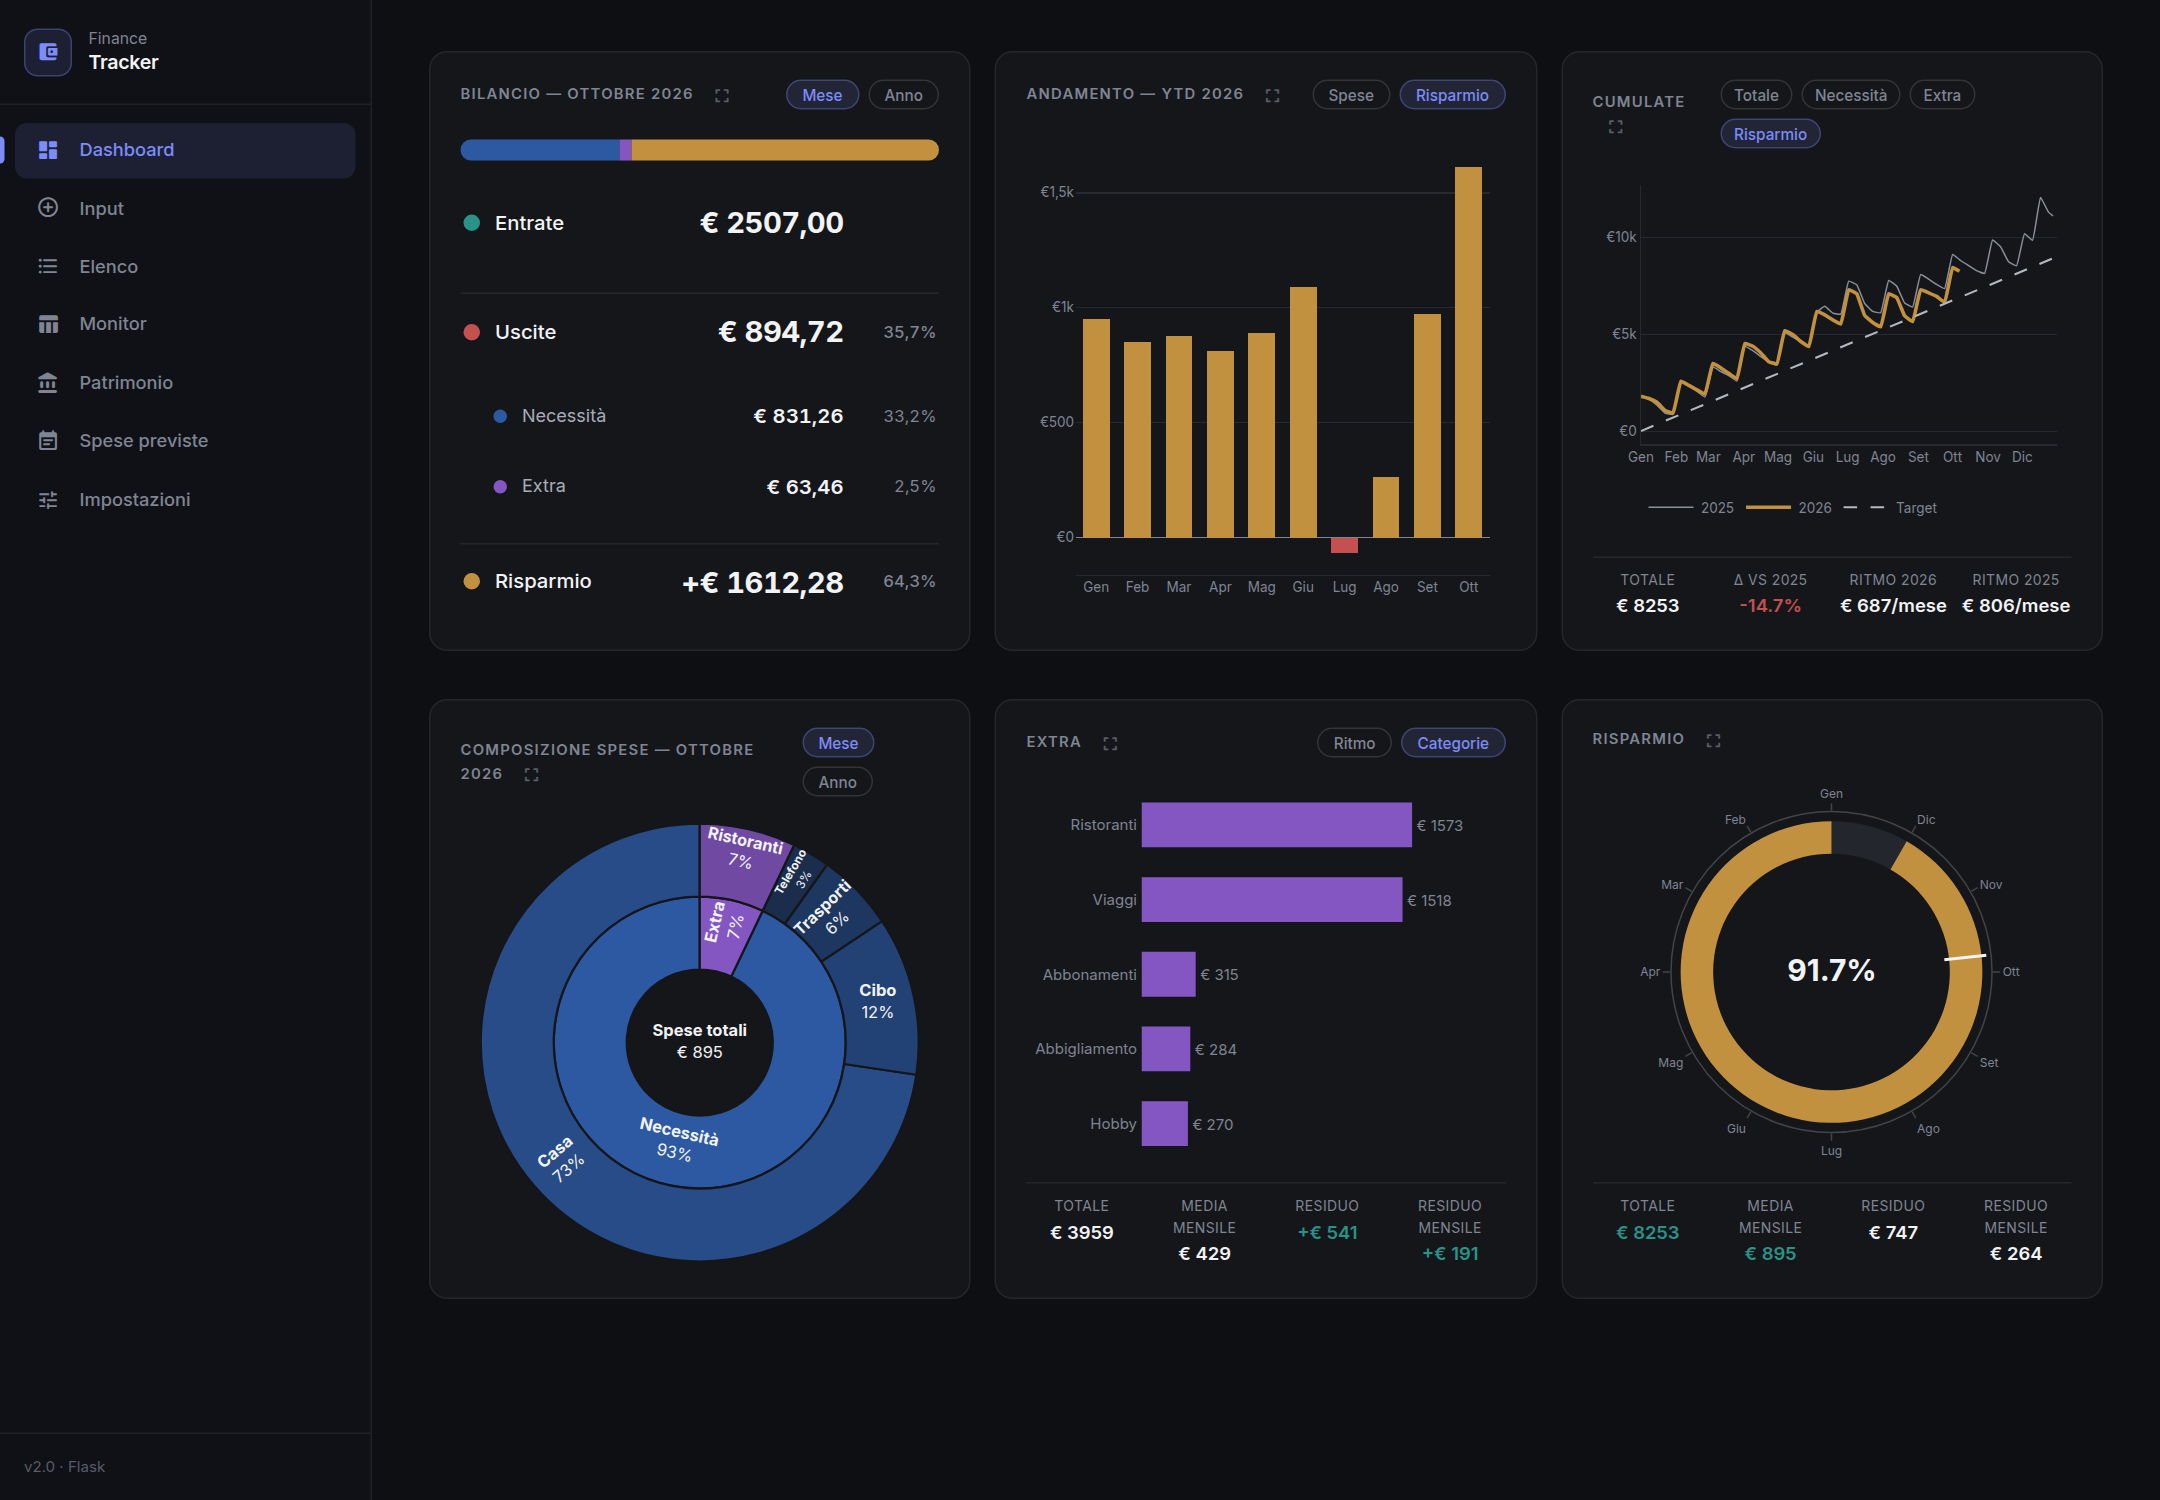
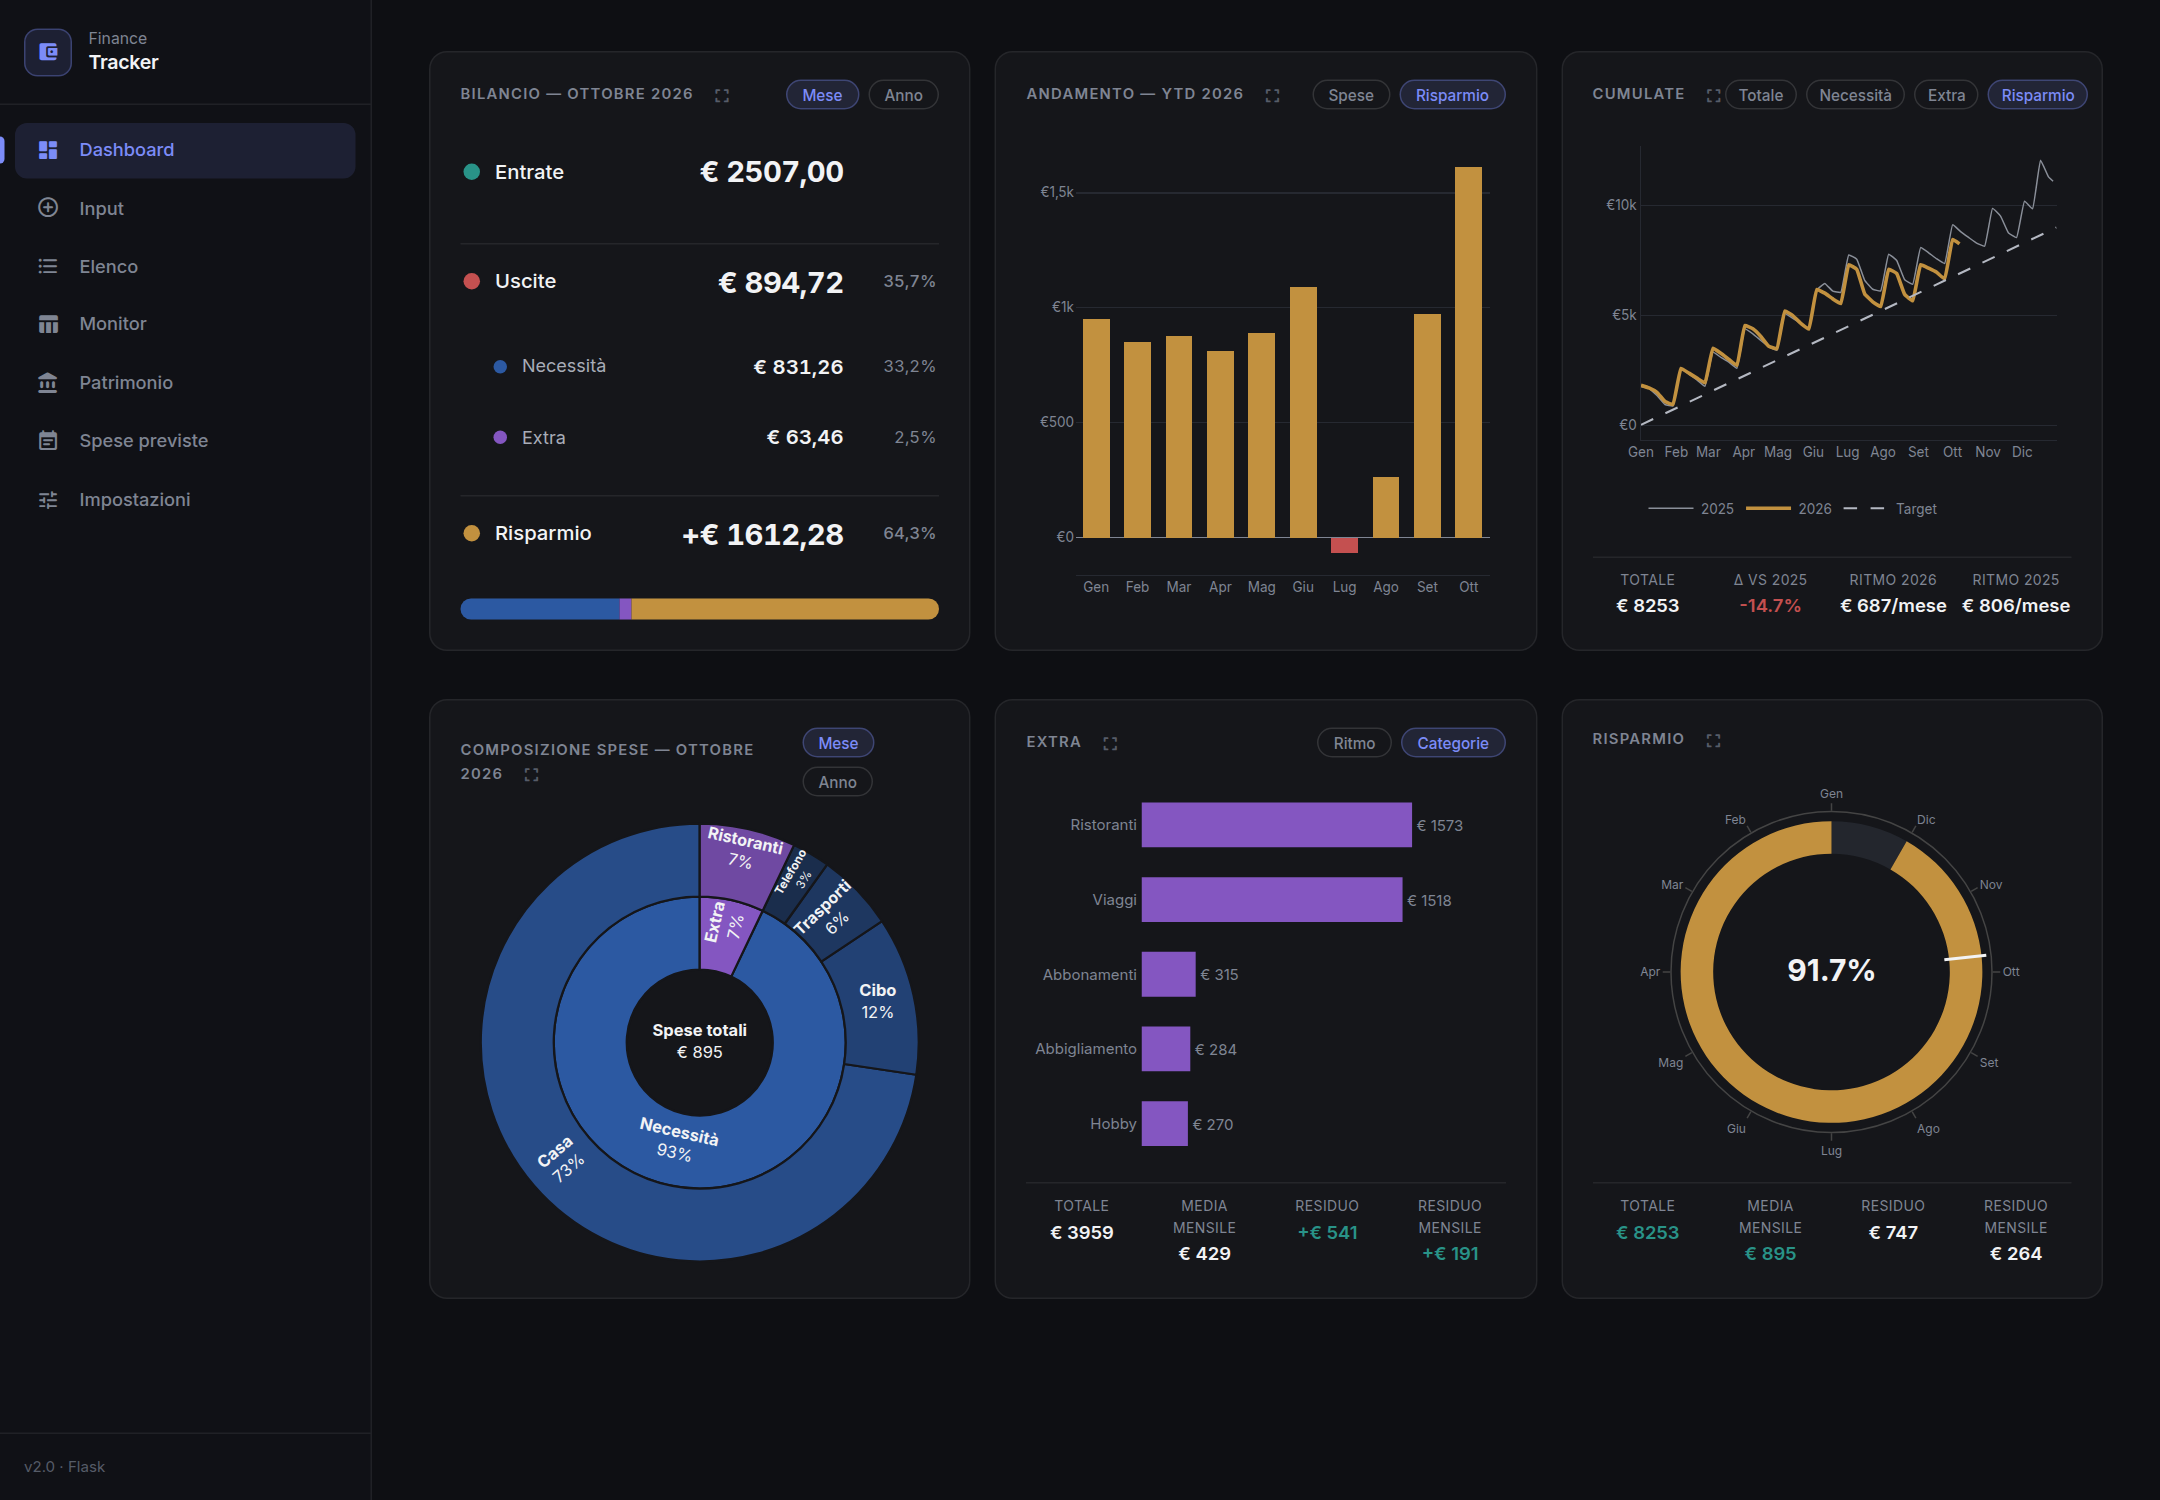
Patrimonio: deposito, obbligazioni ed ETF in tre verdi (scuro, medio, chiaro); Bilancio: barra in basso; intestazione Cumulate su una riga

diff --git a/templates/dashboard.html b/templates/dashboard.html
@@ -16,12 +16,11 @@
                         style="padding:3px 10px;font-size:0.68rem;font-family:inherit">Anno</button>
             </div>
         </div>
-        {# Barra che divide le entrate in necessità / extra / risparmio (se le spese superano le entrate
-           è l'intera spesa e un tick bianco segna dove finiscono le entrate); sotto, entrate, uscite
-           (con necessità ed extra in dettaglio) e risparmio. Valori e barra li scrive drawBilancio()
+        {# Entrate, uscite (con necessità ed extra in dettaglio) e risparmio; in fondo la barra che divide le
+           entrate in necessità / extra / risparmio (se le spese superano le entrate è l'intera spesa e un
+           tick bianco segna dove finiscono le entrate). Valori e barra li scrive drawBilancio()
            al cambio Mese/Anno, senza ricaricare la pagina. #}
         <div class="dashboard-panel-body bl-body">
-            <div class="bl-bar" id="bl-bar" title="Ripartizione delle entrate"></div>
             <div class="bl-rows">
                 <div class="bl-row bl-main"><span class="bl-dot" style="background:var(--data-income)"></span>Entrate
                     <span class="bl-val" id="bl-income"></span><span class="bl-pct"></span></div>
@@ -34,6 +33,7 @@
                 <div class="bl-row bl-main"><span class="bl-dot" style="background:var(--data-savings)"></span>Risparmio
                     <span class="bl-val" id="bl-sav"></span><span class="bl-pct" id="bl-sav-pct"></span></div>
             </div>
+            <div class="bl-bar" id="bl-bar" title="Ripartizione delle entrate"></div>
         </div>
     </div>
 
@@ -58,8 +58,8 @@
     {# ── 5. Cumulata (totale / necessità / extra / risparmio) ──────────── #}
     <div class="chart-card dashboard-panel">
         <div class="chart-title">
-            <span>Cumulate <a class="expand-link" href="{{ url_for('grafici.index', vista='cumulate') }}" title="Apri in grande, con più dettaglio"><span class="material-icons-round">fullscreen</span></a></span>
-            <div class="period-btns" style="margin:0">
+            <span style="white-space:nowrap;flex-shrink:0">Cumulate <a class="expand-link" href="{{ url_for('grafici.index', vista='cumulate') }}" title="Apri in grande, con più dettaglio"><span class="material-icons-round">fullscreen</span></a></span>
+            <div class="period-btns" style="margin:0;flex-wrap:nowrap">
                 {% for key, label in [('tot', 'Totale'), ('ess', 'Necessità'), ('ext', 'Extra'), ('sav', 'Risparmio')] %}
                 <button type="button" class="period-btn {% if loop.first %}active{% endif %}" data-cum-view="{{ key }}"
                         style="padding:3px 8px;font-size:0.68rem;font-family:inherit">{{ label }}</button>

diff --git a/templates/patrimonio.html b/templates/patrimonio.html
@@ -155,7 +155,7 @@ function hexAlpha(hex, a) {
 const COMP_DEFS = [
     { key: 'liquidita',  label: 'Liquidità',         color: _PP.liquidita  },
     { key: 'emergenza',  label: 'Fondo emergenza',    color: _PP.conto      },
-    { key: 'breve',      label: 'Breve termine',      color: PALETTE.years[4] },
+    { key: 'breve',      label: 'Breve termine',      color: _PP.obblig     },
     { key: 'lungo',      label: 'Lungo termine',      color: _PP.etf        },
     { key: 'previdenza', label: 'Pensione compl.',    color: _PP.previdenza },
 ];
@@ -255,7 +255,7 @@ renderChart();
 // della serie "Liquidità", Fon.Te. e TFR quello della "Pensione compl.", ecc.
 const COL_COLOR = {
     bcc: _PP.liquidita, bbva: _PP.liquidita, directa: _PP.liquidita,
-    deposito: _PP.conto, obblig: PALETTE.years[4], etf_etc: _PP.etf,
+    deposito: _PP.conto, obblig: _PP.obblig, etf_etc: _PP.etf,
     tfr: _PP.previdenza, fon_te: _PP.previdenza,
     totale: getComputedStyle(document.documentElement).getPropertyValue('--accent').trim() || '#7c8cf8',
     pos: '#299388', neg: '#c45050',   // variazione: verde = in aumento, rosso = in calo

diff --git a/templates/input.html b/templates/input.html
@@ -135,7 +135,7 @@
                     <label>{{ labels['deposito'] }}</label>
                     <input type="number" name="deposito" class="form-control" step="0.01" placeholder="0.00">
                 </div>
-                <div class="form-section"><span class="pill-dot" style="background:{{ PALETTE.years[4] }};opacity:1"></span>Breve termine</div>
+                <div class="form-section"><span class="pill-dot" style="background:{{ PALETTE.patrimonio.obblig }};opacity:1"></span>Breve termine</div>
                 <div class="form-group">
                     <label>{{ labels['obblig'] }}</label>
                     <input type="number" name="obblig" class="form-control" step="0.01" placeholder="0.00">

diff --git a/static/css/style.css b/static/css/style.css
@@ -954,7 +954,7 @@ select.bar-field.active-field { background: var(--accent-wash); border-color: va
 .ring-tip i { display: inline-block; width: 8px; height: 8px; border-radius: 50%; margin-right: 6px; }
 
 /* ---- DASHBOARD: box Bilancio ---- */
-.bl-body { justify-content: space-between; gap: 16px; padding-top: 6px; }
+.bl-body { justify-content: space-between; gap: 18px; padding-top: 2px; }
 .bl-bar { position: relative; display: flex; height: 14px; border-radius: var(--radius-pill); background: var(--surface-2); overflow: visible; }
 .bl-seg { display: block; height: 100%; }
 .bl-seg:first-child { border-radius: var(--radius-pill) 0 0 var(--radius-pill); }

diff --git a/palette.py b/palette.py
@@ -82,10 +82,15 @@ YEAR_PALETTE = [
 PATRIMONIO = {
     'liquidita':       '#3987e5',
     'liquidita_fill':  'rgba(57,135,229,0.18)',
-    'conto':           '#199e70',
-    'conto_fill':      'rgba(25,158,112,0.18)',
-    'etf':             '#39a564',
-    'etf_fill':        'rgba(57,165,100,0.18)',
+    # Deposito, obbligazioni ed ETF sono tre verdi di luminosità crescente (scuro → medio → chiaro):
+    # stessa famiglia perché sono investimenti "a basso rischio → a rischio crescente" affini,
+    # distinguibili per tono.
+    'conto':           '#1a8a5f',
+    'conto_fill':      'rgba(26,138,95,0.20)',
+    'obblig':          '#34b27a',
+    'obblig_fill':     'rgba(52,178,122,0.20)',
+    'etf':             '#8ae3b0',
+    'etf_fill':        'rgba(138,227,176,0.20)',
     'previdenza':      '#d9730d',
     'previdenza_fill': 'rgba(217,115,13,0.16)',
     'totale':          '#9085e9',
